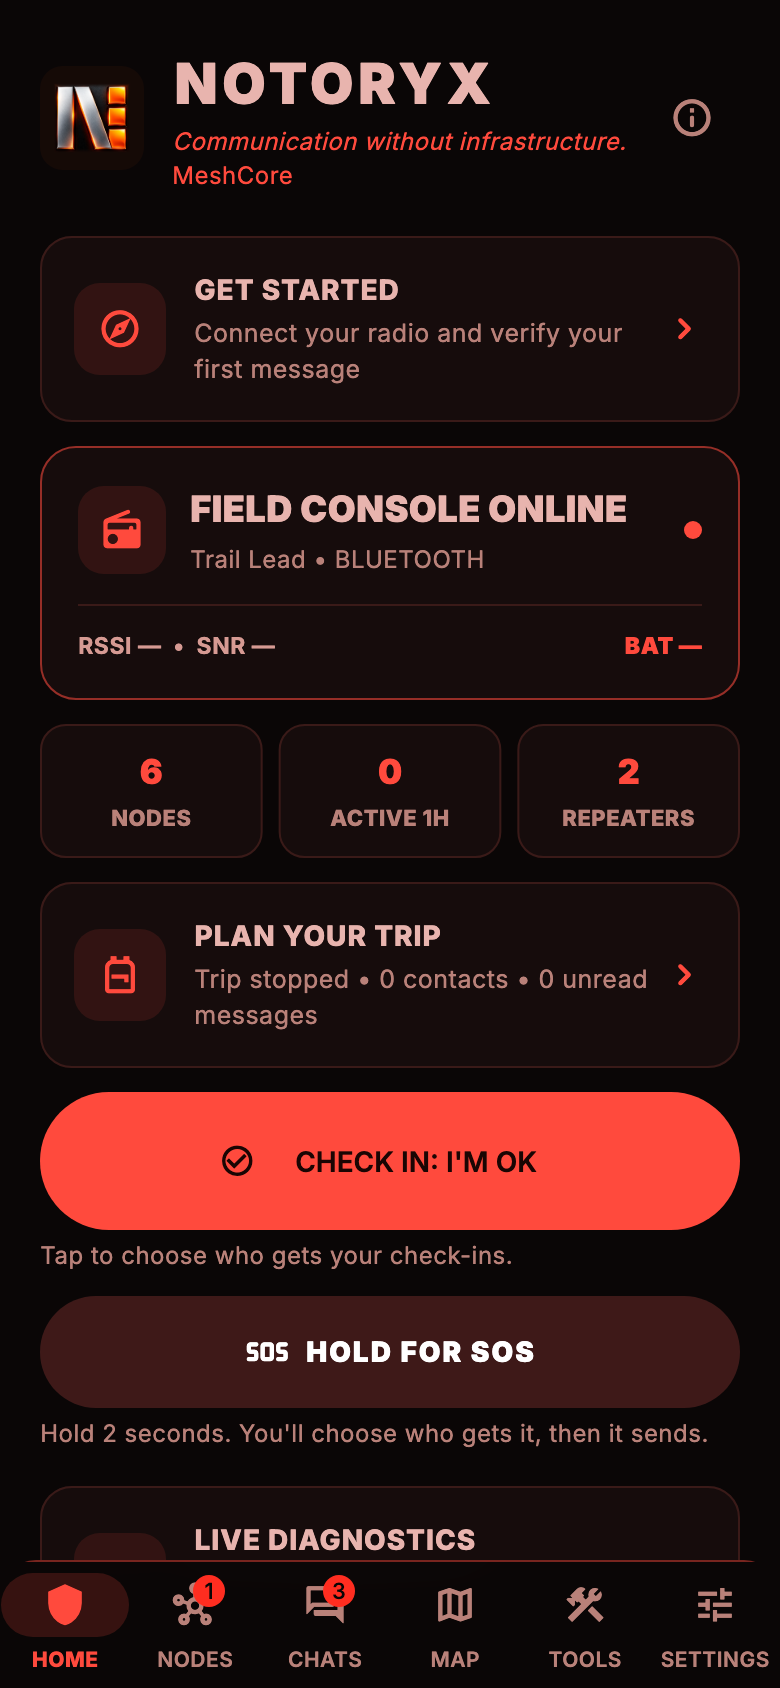
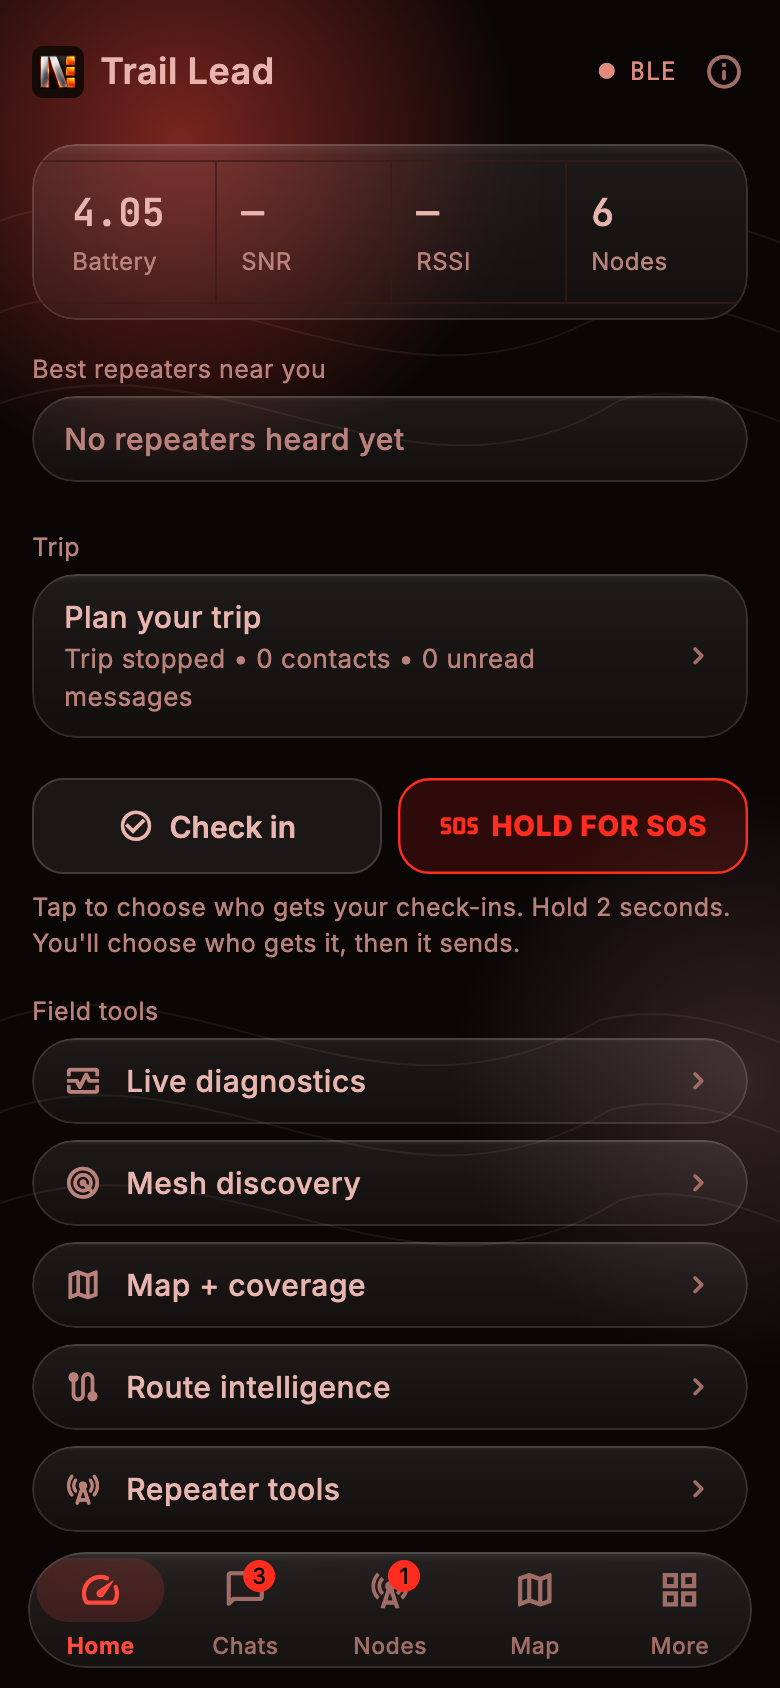
README: new screenshots and current features

diff --git a/README.md b/README.md
@@ -13,9 +13,9 @@ Part of the **NOTORYX** off-grid communications family. **No Towers. No Limits.*
 NOTORYX Core turns your phone or computer and a [MeshCore](https://meshcore.io/) radio into a field communicator that works without cell service, Wi-Fi or the internet. Messages hop from radio to radio across the mesh.
 
 <p align="center">
-  <img src="docs/screenshots/home.png" width="230" alt="Field Console home screen with check-in and SOS">
-  <img src="docs/screenshots/channel_chat.png" width="230" alt="A channel conversation">
-  <img src="docs/screenshots/path_graph.png" width="230" alt="Path graph showing how messages reach you">
+  <img src="docs/screenshots/home.png" width="230" alt="Home: radio readouts, check-in, SOS and field tools on frosted glass">
+  <img src="docs/screenshots/chats.png" width="230" alt="Chats: channels and direct conversations">
+  <img src="docs/screenshots/nodes.png" width="230" alt="Nodes: repeaters, people, rooms and sensors heard on the mesh">
 </p>
 
 > NOTORYX Core is a pre-release. It is tested in automated tests and a mesh simulator but not yet on a wide range of phones and radios. MQTT bridging and LetsMesh sign-in are new and still need wider real-world testing. It is not a replacement for an emergency service or a satellite messenger. Please [report issues](../../issues).
@@ -37,7 +37,7 @@ iOS, Windows, Linux and web builds compile in CI but aren't released yet.
 2. Open the file. If Android asks, allow installs from your browser or file manager.
 3. Open NOTORYX Core and allow **Bluetooth**, **location** and **notifications** when asked.
 
-**Upgrading from a test build:** builds before 10.0.0-rc.10 were signed with a temporary test key, and Android won't install a release-signed build over them. First make an encrypted backup (**Tools → Encrypted backup**), then uninstall the old app, install the new one and restore. You only do this once. Later versions install as normal updates.
+**Upgrading from a test build:** builds before 10.0.0-rc.10 were signed with a temporary test key, and Android won't install a release-signed build over them. First make an encrypted backup (**More → Encrypted backup**), then uninstall the old app, install the new one and restore. You only do this once. Later versions install as normal updates.
 
 ### Install on a Mac
 
@@ -56,59 +56,73 @@ Each release includes `SHA256SUMS-Android.txt` and `SHA256SUMS-macOS.txt` if you
 1. **Connect your radio.** On the home screen, tap **Get started**, or go to **Connect radio**. NOTORYX Core connects over Bluetooth, USB or TCP to a radio running MeshCore companion firmware, and reconnects to your last radio on its own.
 2. **Say hello.** Open **Chats** and send a message on a channel, or open someone in **Nodes** to message them directly.
 3. **Choose who gets your check-ins and SOS.** Tap **Check in: I'm OK** or hold **SOS**. The first time, NOTORYX Core asks who should get them. You can change this anytime in **Plan your trip**.
-4. **Pick a look.** **Settings → Theme** offers Blaze (default), Topo night, Red light and Alpine day (plus Halloween in 10.0.0-rc.H only).
+4. **Set your radio for your area.** **Settings → Radio settings → Presets** lists MeshCore's community presets (USA, Canada, EU/UK, Australia and more) with the one for your country suggested first.
+5. **Pick a look.** **Settings → Theme** offers Blaze (default), Topo night, Red light and Alpine day.
 
-The **HOME** tab at the bottom always brings you back to the Field Console, where check-in and SOS live.
+The tabs at the bottom are **Home**, **Chats**, **Nodes**, **Map** and **More**. Home is where check-in, SOS and your radio's readings live; **More** holds every tool and setting, with a search box.
 
 ## Features
 
 ### Safety and trips
 - **SOS:** hold for 2 seconds to send your radio's position to your trip contacts (and an optional channel). It repeats every 5 minutes until someone replies or you stop it, and **I'm safe** sends an all-clear.
+- **Signed SOS:** an SOS on a channel carries a signature from your radio's own key, so other NOTORYX users can see it really came from you. You can sign every channel post too. A post whose signature doesn't check out is shown as unverified, and other apps just see the normal message.
 - **Check-ins:** I'm OK, At camp, Delayed and Heading back. You see who each one reached, and can resend to anyone it missed.
-- **Check-in reminders:** a phone notification when you're due to check in, even if NOTORYX Core is closed.
-- **Overdue alerts:** a warning when a trip contact goes quiet for longer than you set.
+- **Check-in reminders and overdue alerts:** a notification when you're due to check in, and a warning when a trip contact goes quiet for longer than you set.
 - **Trip planning:** pick up to six contacts. Trip briefs, a Field Log of everything sent and received, and optional automations.
+- **Android home-screen widget:** radio status, battery and unread count, with one-tap Check in and SOS.
 
 ### Messaging
-- Direct and channel messages with delivery status, reactions, GIFs and image messages.
-- **Message search** across everything saved on the device.
-- **Drafts** are kept per chat.
+- Direct and channel messages with delivery status, reactions, GIFs and image messages. Tapping a notification opens that chat.
+- **Find channels:** a directory of public hashtag channels (local ones first), channels heard on air that you haven't joined, and **Active online**: the #channels an online analyzer has seen in use, with one-tap Join.
+- **Message search**, per-chat **drafts**, **read aloud** and on-device translation.
 - **Share your position or a contact** from the message box. Received contacts can be added in one tap.
-- **Read messages aloud** (optional), and on-device translation.
+- **Link previews** (off by default, since fetching one tells the site your IP address).
 - **Area-limited channel messages** that stay within a radius of you. These need radios running flood-corridor firmware.
 - Optional auto-delete of old channel messages.
 
 ### Maps, paths and coverage
-- Live mesh map with offline map packs.
-- **Path graph:** every path you've heard, drawn as flows from far repeaters to you, with the busiest repeaters ranked. Short (1-byte) hops are matched to a specific repeater using longer paths.
-- **Antenna coverage:** see where an antenna at a chosen height could reach over the terrain.
-- Line-of-sight checks, coverage capture sessions you can record and export, and route intelligence (which handles 1-, 2- and 3-byte hop IDs).
+- Live mesh map with offline map packs, and a **track log** that records your trail and exports GPX.
+- **Path graph:** every path you've heard, drawn as flows from far repeaters to you. Short (1-byte) hops are matched to a specific repeater using longer paths.
+- **Route Intelligence:** learned routes and the best repeaters your radio hears directly.
+- **Observer reach:** check which online observers heard a message you sent, how many hops it took and the best signal. Repeaters you don't have as contacts can be named online. Both use a CoreScope analyzer you choose in Settings.
+- **Coverage hexagons:** record where your radio got through and upload to your own HTTPS endpoints, with a privacy delay.
+- **Antenna coverage** over the terrain, line-of-sight checks and coverage capture sessions.
+
+### Your radio
+- **Sensors on Home:** your radio's own readings (battery voltage, temperatures, GPS, light and whatever else it reports).
+- **Radio presets:** MeshCore's community catalogue with search and a suggestion for your country. Choosing one keeps your transmit power. Local mesh settings (for example Philadelphia's) are offered when your radio is in that area; see [adding your area](#add-your-areas-mesh-settings).
+- **Send your advert** zero-hop (only radios that hear you directly) or flooded across the mesh.
+- Connections dashboard, live radio stats and a noise-floor chart, adjustable refresh rate and battery saver.
+- Command line and Wi-Fi setup for your own radio. With permission, you can also use a trusted contact's command line.
+
+### Field tools
+- **Repeater ping:** a one-hop trace showing the signal both ways. **Antenna hunt:** clicks faster as a chosen repeater gets louder.
+- Repeater and room-server tools: login, status, neighbors, telemetry, command line and **access control**.
+- **Repeater IDs** (who uses an ID, which are free) and **Region setup** (US and Canada region trees, or your own) for repeater owners.
+- **Bot Mode:** local auto-replies, keyword rules and commands like `!ping`, `!sun`, `!moon`, `!weather`, `!dice` and `!trace`, in direct messages and in the channels you choose. It can also post weather alerts to a channel.
+- **Field guide**, encrypted backup and app-icon shortcuts.
 
 ### MQTT bridge (optional)
-- **Connect to an MQTT broker** over TLS or secure WebSocket to see MeshCore traffic from beyond radio range. Broker passwords are kept in the system keychain, never in plain settings.
-- **Live packet feed** of what arrives over MQTT. Channel messages that reached you only over the internet are marked **via MQTT**, and never count as radio repeats.
-- **Observer sharing** sends what your radio hears to the broker, in the community `meshcoretomqtt` format. It's off until you turn it on, and direct messages and your own traffic each need a separate opt-in.
-- **LetsMesh-style brokers:** sign in with a token signed by your radio, so its private key never leaves it. US and EU LetsMesh presets are included; they're community services, not part of NOTORYX.
-- Reconnects on its own when your network comes back.
-
-### Your radios
-- **Connections dashboard** (from **Connect radio**): radio and MQTT status side by side, device and firmware details, and a clear prompt when Bluetooth is off.
-- Radio overview with battery, firmware and LoRa settings, plus live radio stats and a noise-floor chart.
-- **Local mesh settings:** NOTORYX Core knows the settings that local meshes have agreed on (for example Philadelphia's 919.500 MHz preset). It tells you when your radio doesn't match, and switches it after you confirm. See [adding your area](#add-your-areas-mesh-settings).
-- Repeater and room-server tools: login, status, neighbors, telemetry, command line and **access control**.
-- **Live sensor updates:** sensors push readings when they change.
-- Command line and Wi-Fi setup for your own radio. With permission, you can also use a trusted contact's command line.
-- Bot Mode auto-replies, encrypted backup, battery saver and app-icon shortcuts.
+- **Several brokers at once** over TLS or secure WebSocket, with a Wi-Fi-only option and an offline queue that sends when you're back online. Broker passwords are kept in the system keychain.
+- **Live packet feed.** Channel messages that reached you only over the internet are marked **via MQTT**, and never count as radio repeats.
+- **Observer sharing** in the community `meshcoretomqtt` format. It's off until you turn it on, and direct messages and your own traffic each need a separate opt-in.
+- **LetsMesh-style sign-in** with a token signed by your radio, so its private key never leaves it. LetsMesh (US and EU) and MeshRank presets are included; they're community services, not part of NOTORYX.
 
 ### Look and feel
-- Four themes: **Blaze**, **Topo night**, **Red light** (keeps your night vision) and **Alpine day** (for bright sun). All are checked for readable contrast.
-- **Halloween** (pumpkin, toxic green and haunted purple) is available in 10.0.0-rc.H only. It goes away in the next release, and the app switches back to Blaze on its own.
-- Available in 17 languages. A few screens (bot settings and the local mesh settings banner) are still in English only.
+- **Frosted ember:** the main screens sit on a warm glow, with see-through glass panels and a floating tab bar. With reduce motion turned on, the blur is off.
+- Four themes: **Blaze**, **Topo night**, **Red light** (keeps your night vision) and **Alpine day** (for bright sun).
+- Available in 18 languages.
 
 <p align="center">
-  <img src="docs/screenshots/home_red_light.png" width="200" alt="Red light theme">
+  <img src="docs/screenshots/more.png" width="200" alt="More: every tool and setting, searchable">
   <img src="docs/screenshots/home_alpine_day.png" width="200" alt="Alpine day theme">
-  <img src="docs/screenshots/settings.png" width="200" alt="Settings with the theme picker">
+  <img src="docs/screenshots/home_red_light.png" width="200" alt="Red light theme">
+</p>
+
+<p align="center">
+  <img src="docs/screenshots/routes.png" width="200" alt="Route Intelligence">
+  <img src="docs/screenshots/path_graph.png" width="200" alt="Path graph showing how messages reach you">
+  <img src="docs/screenshots/settings.png" width="200" alt="Settings">
 </p>
 
 ## Add your area's mesh settings
@@ -158,7 +172,7 @@ Before opening a pull request, run:
 
 ```bash
 dart format lib test
-flutter analyze
+flutter analyze --fatal-infos
 flutter test
 ```
 
@@ -169,7 +183,7 @@ flutter test
 - `lib/services/`: field ops, coverage, routing, MQTT, notifications and other services
 - `lib/models/`, `lib/storage/`: data and persistence
 - `lib/theme/`: themes and colors
-- `test/`: unit and widget tests; `test/preview/` renders screenshots (`PREVIEW_OUT=dir flutter test test/preview`)
+- `test/`: unit and widget tests; `test/preview/` renders screenshots (`PREVIEW_OUT=dir flutter test test/preview`, with `PREVIEW_THEME=alpine_day` or `red_light` for other themes)
 
 ## Contributing
 
